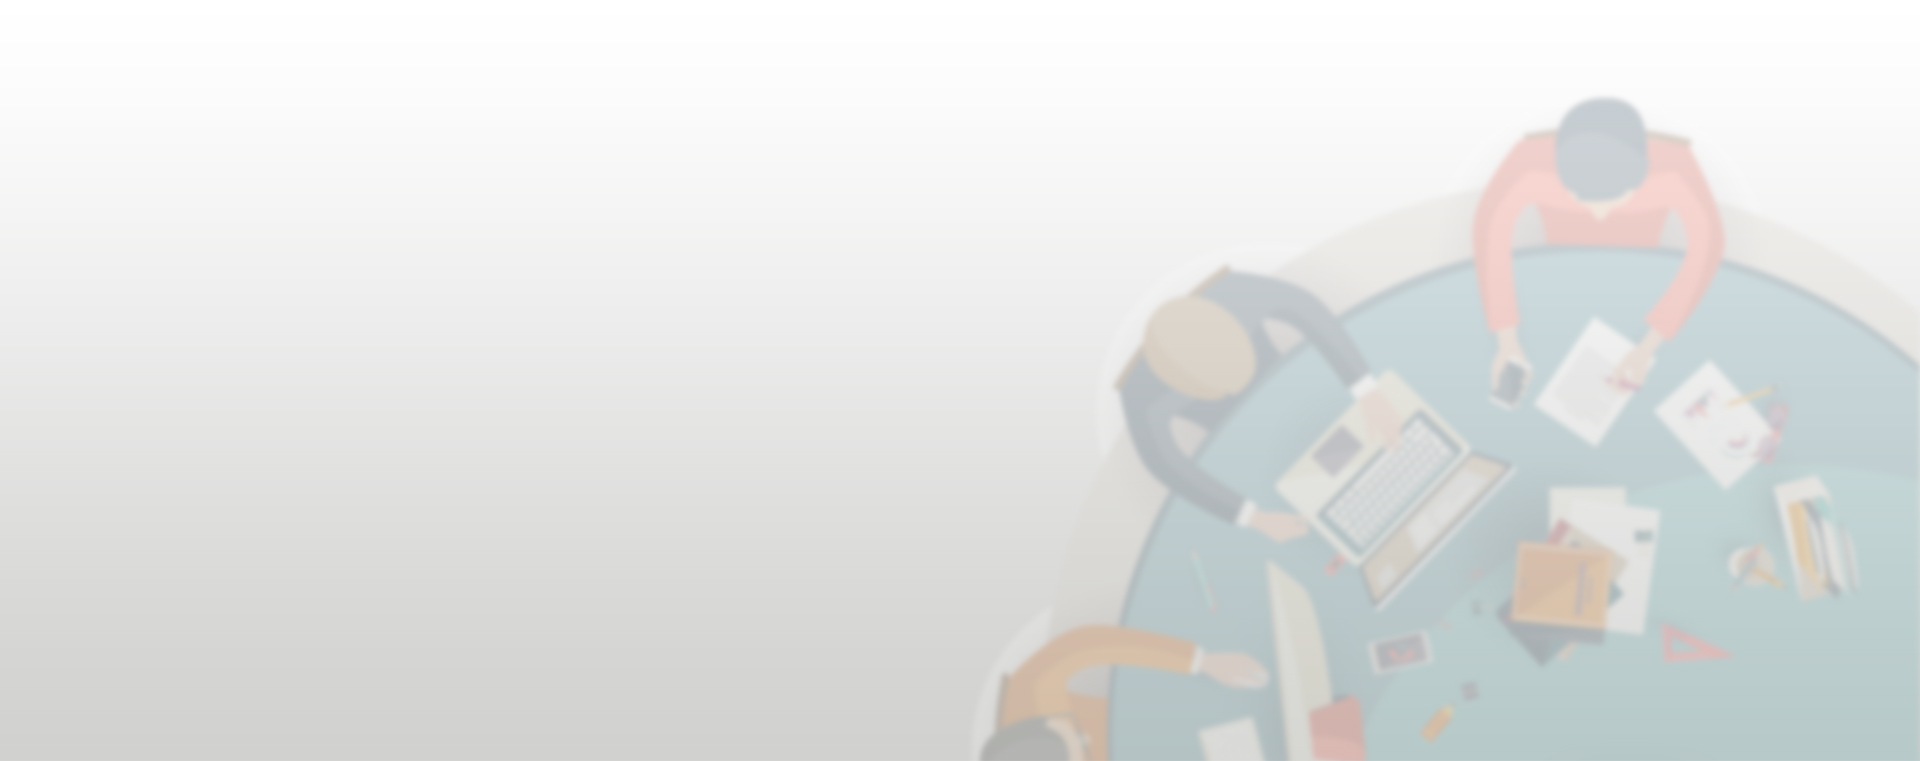
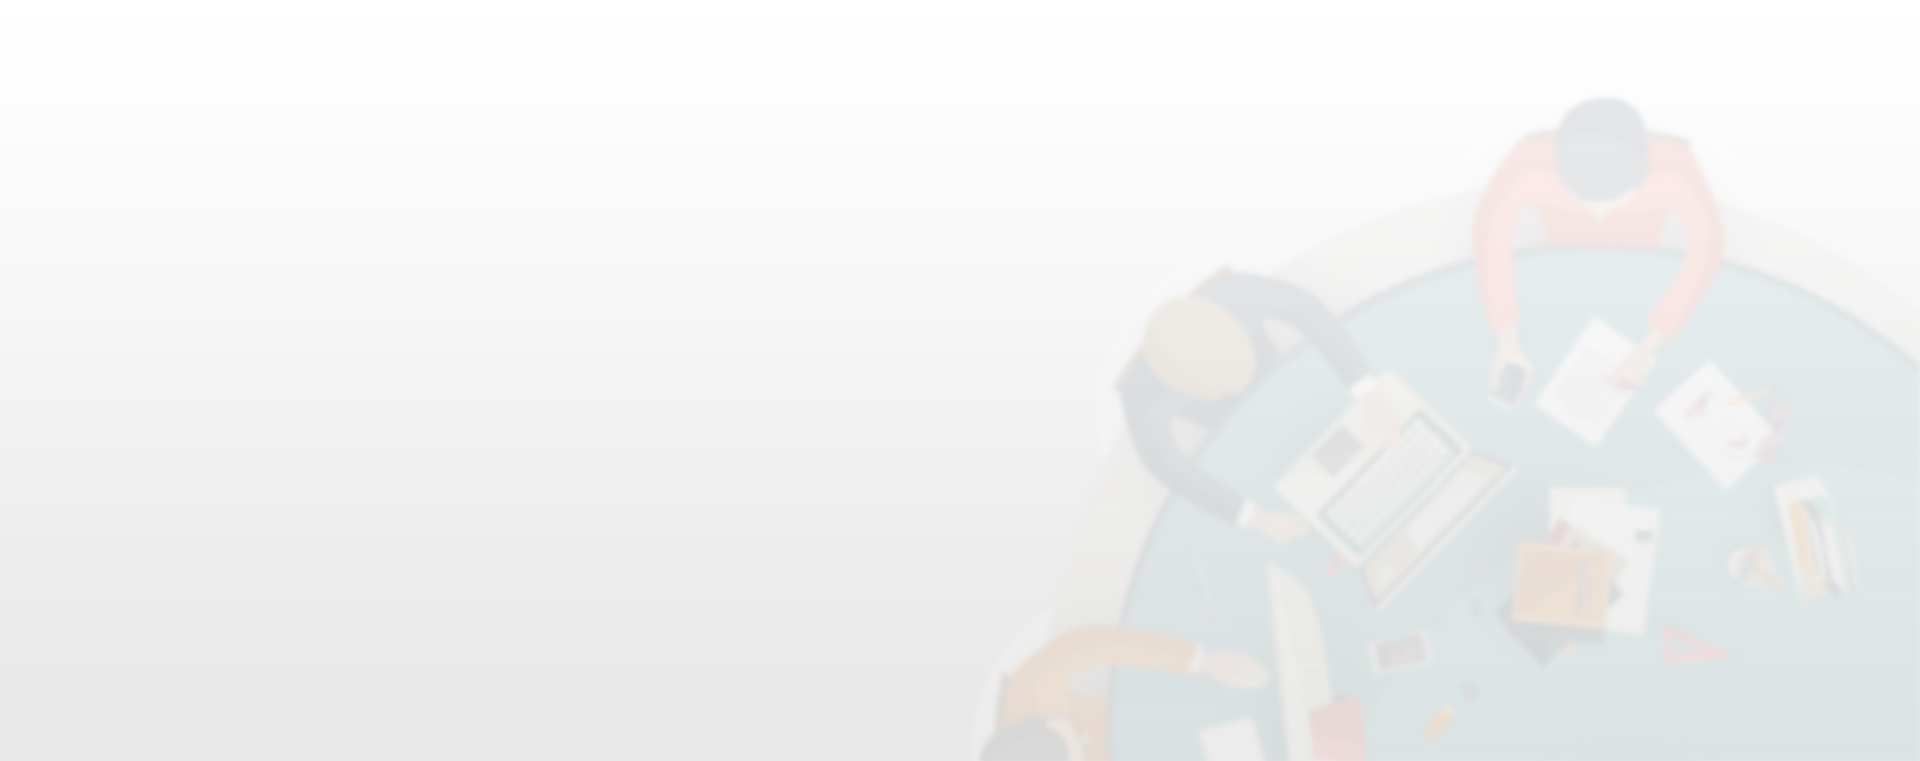
design fixes

Changed region(s): [[0.0, 0.1209, 1.0, 1.0]]

diff --git a/public/static/css/tgld-custom.css b/public/static/css/tgld-custom.css
@@ -92,7 +92,7 @@ border-left: 0px solid #5FB68C;
 	width: 125px;
 	height: 10px;
 	margin: -15px auto 30px auto;
-	background: url(../images/title-underline.png) no-repeat;
+	background: url(../img/title-underline.png) no-repeat;
 }
 
 
@@ -157,13 +157,16 @@ min-height: 170px;
 width: 125px;
 height: 10px;
 margin: -15px auto 50px auto;
-background: url(../images/title-underline.png) no-repeat;
+background: url(../img/title-underline.png) no-repeat;
 }
 
 .about-description {
 min-height: 110px;
 }
-
+.featured_section3{
+	background: url("../img/home-about-bg.jpg") no-repeat;
+	width: 100%;
+}
 .icons {
 max-width: 140px;
 position: relative;

diff --git a/resources/views/partials/phones/display-capacities.blade.php b/resources/views/partials/phones/display-capacities.blade.php
@@ -14,7 +14,7 @@
                     <div class="rod-col-20">
                         <div class="capacities-wrapper process-wrapper">
                             <label for="inputCapacity2" class="capacity-16-img @if(in_array(2, $capacity_ids)) full-opacity @endif"><span></span></label>
-                            <input disabled id="inputCapacity2" type="radio" name="capacity_slug" value="16">
+                            <input  id="inputCapacity2" type="radio" name="capacity_slug" value="16">
                         </div>
                     </div>
                     <div class="rod-col-20">

diff --git a/resources/views/pages/home.blade.php b/resources/views/pages/home.blade.php
@@ -525,7 +525,7 @@
 </div>
 </div><!-- end featured section 3 -->
 
-<div class="clearfix margin_top10"></div>
+
 
 
 <footer class="footer">
